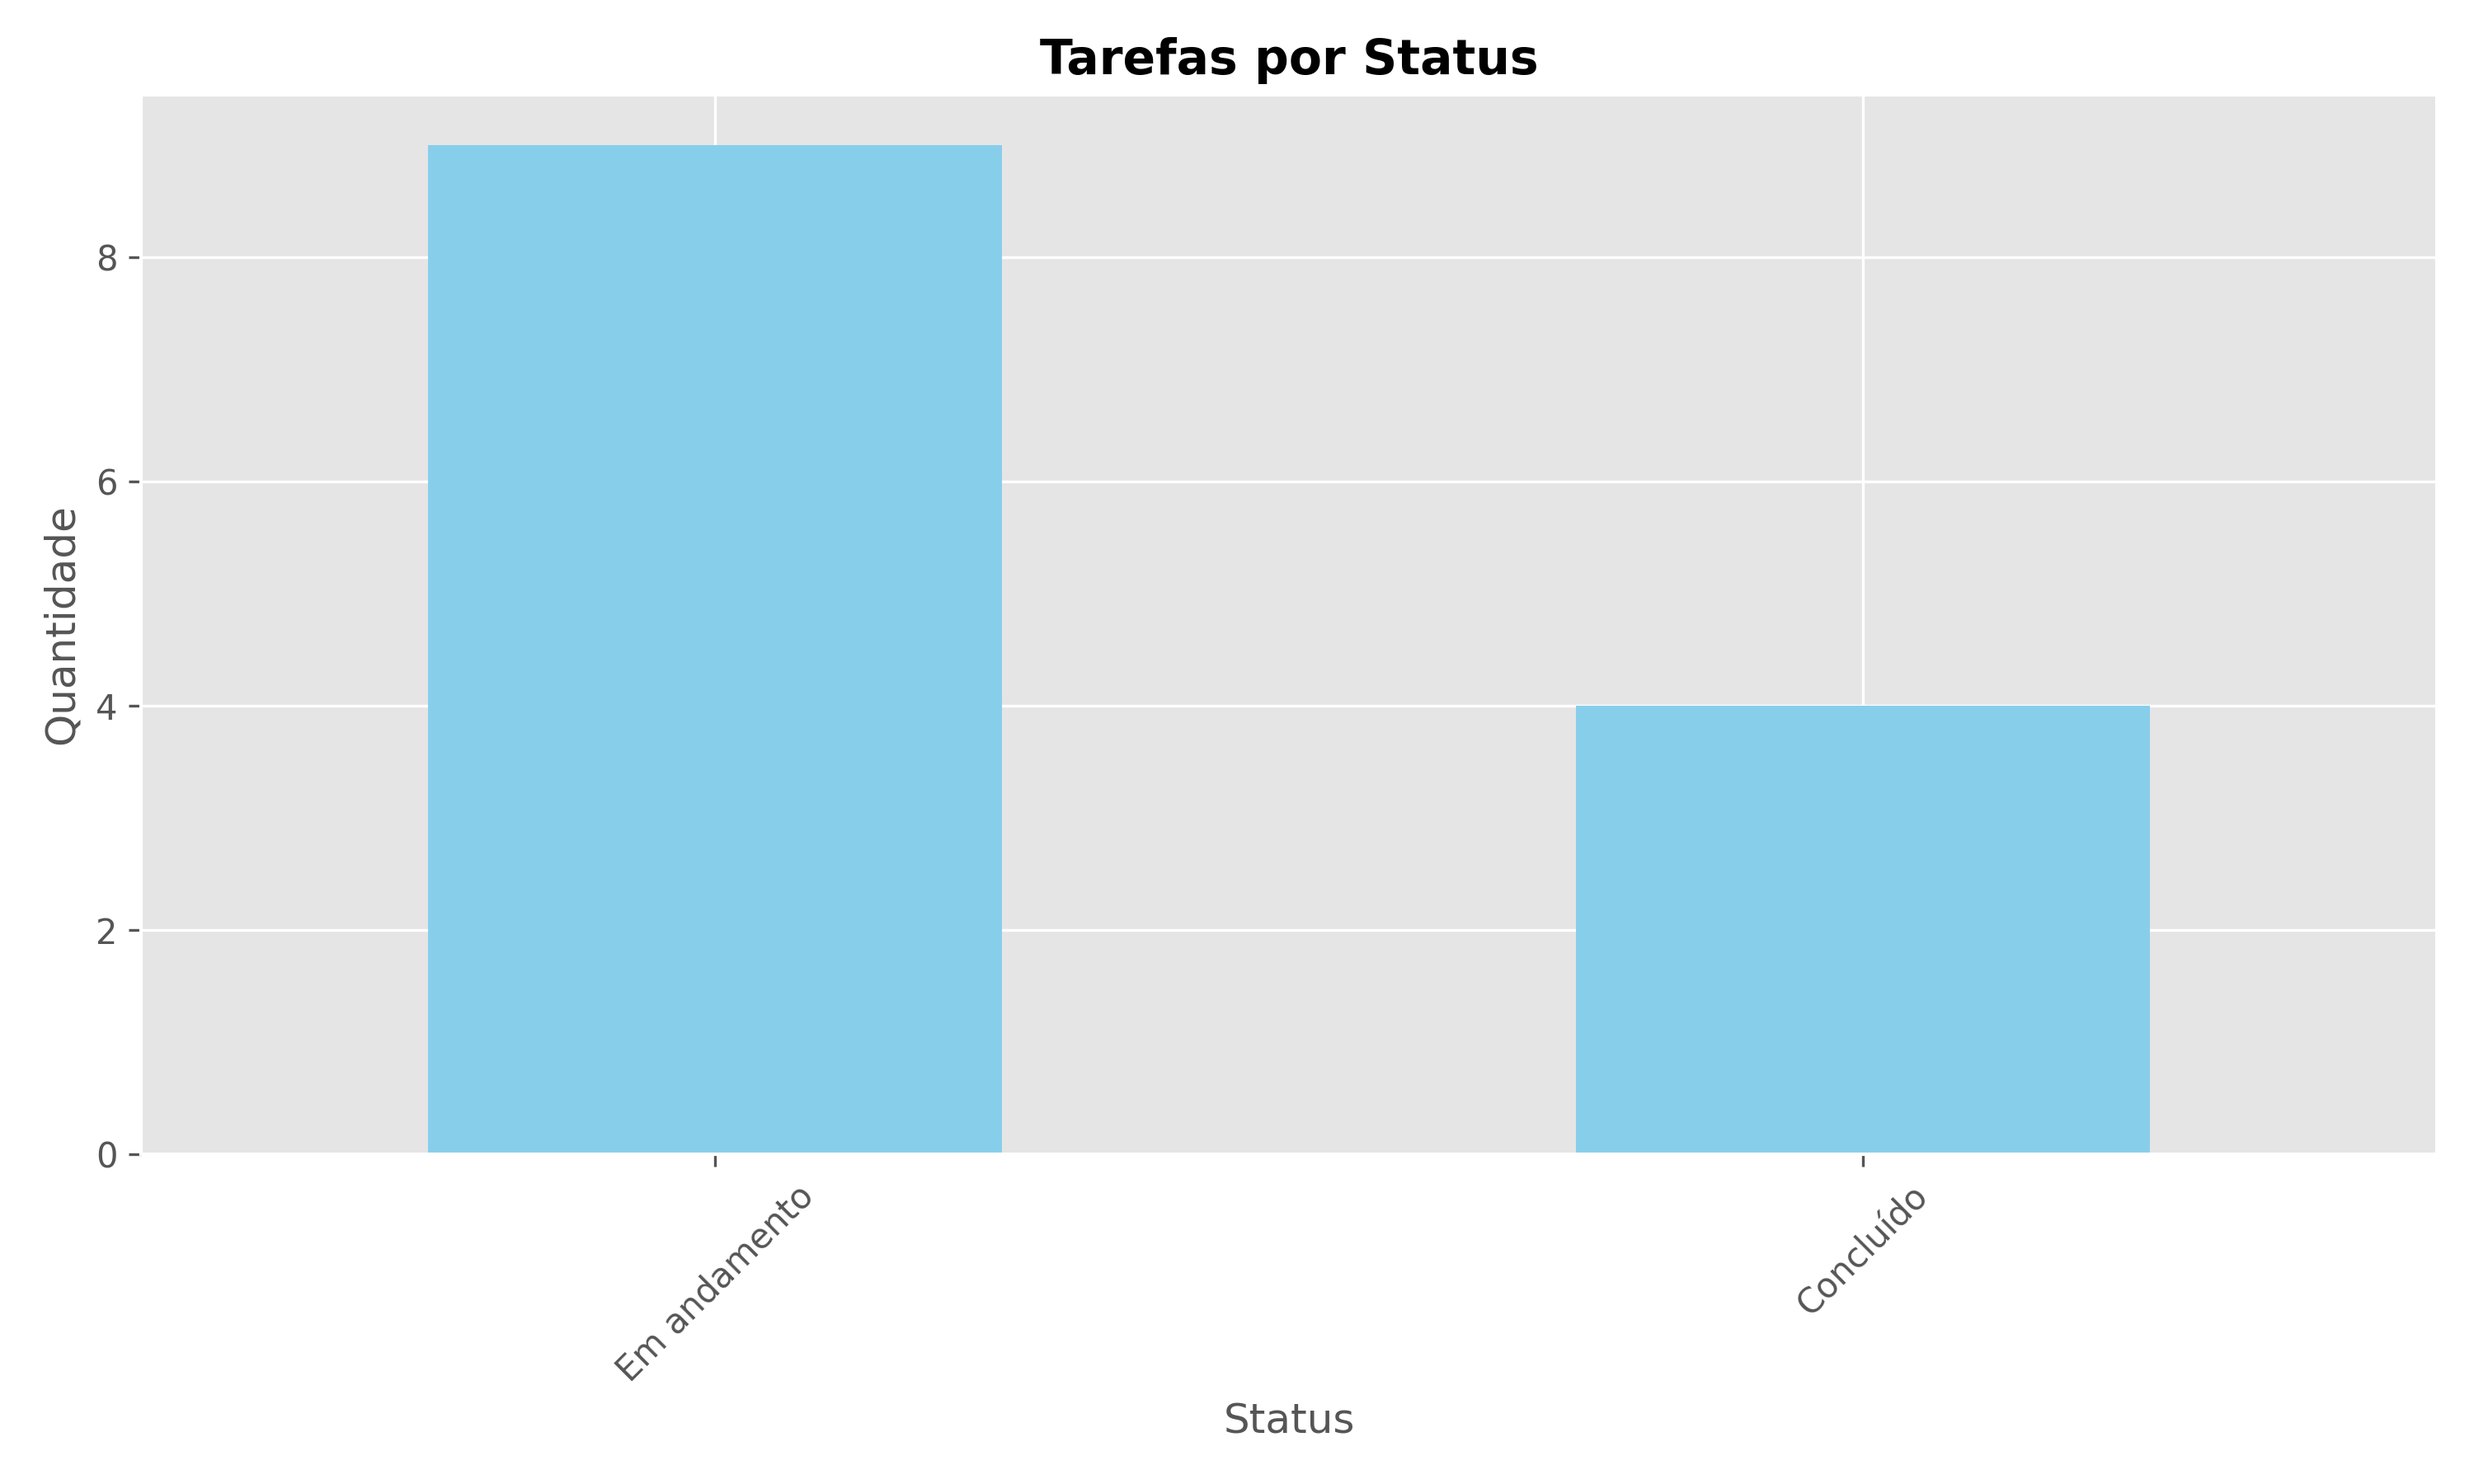
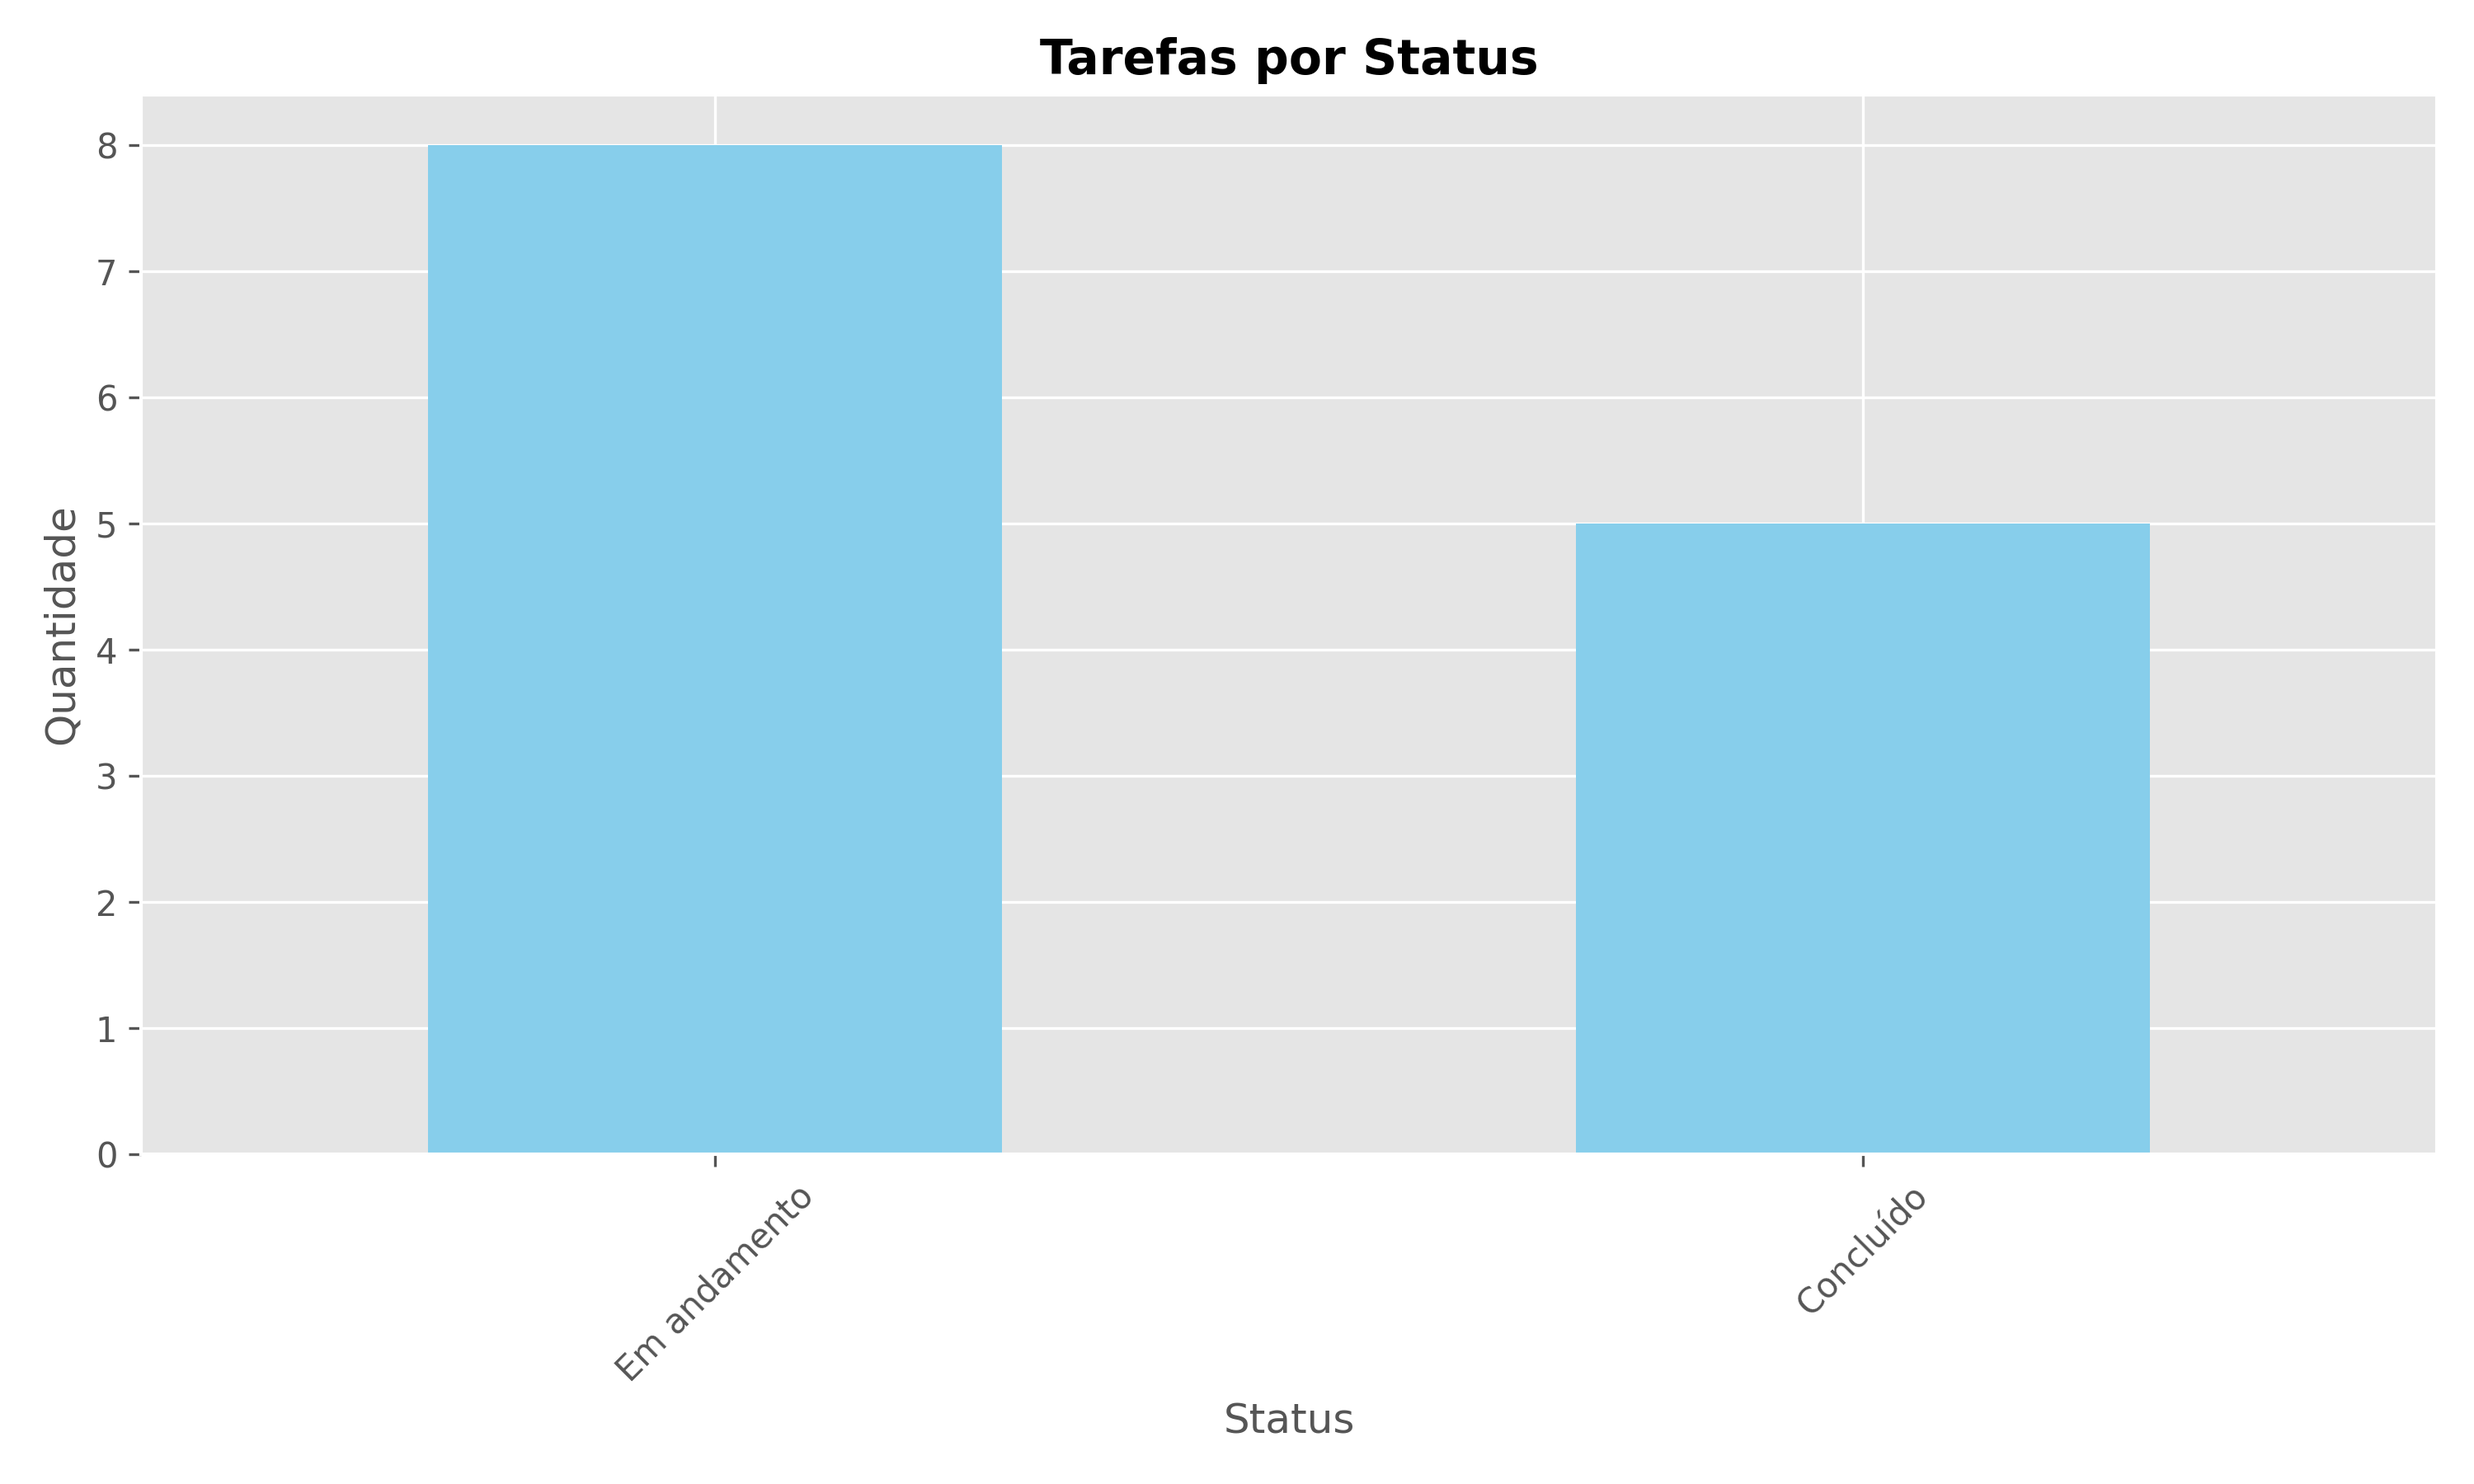
docs: mark Receita Federal activity as completed

Changed region(s): [[0.62, 0.3422, 0.868, 0.4978], [0.403, 0.1556, 0.961, 0.1867], [0.031, 0.1556, 0.155, 0.1867]]

diff --git a/docs/atividades/2026-03-atividades.md b/docs/atividades/2026-03-atividades.md
@@ -25,7 +25,7 @@ Este documento registra as atividades concluídas durante o mês para fins de es
 - [#2](https://github.com/ifesserra-lab/diretoria/issues/2) - [TAREFA]: Agendar reuniões com grupos de extensão (⏳)
 
 ### 🏛 Gestão (DPPGE)
-- [#13](https://github.com/ifesserra-lab/diretoria/issues/13) - [TAREFA]: Receber produtos da Receita Federal, categorizar e dividir entre as áreas do campus (⏳)
+- [#13](https://github.com/ifesserra-lab/diretoria/issues/13) - [TAREFA]: Receber produtos da Receita Federal, categorizar e dividir entre as áreas do campus (✅)
 - [#7](https://github.com/ifesserra-lab/diretoria/issues/7) - [TAREFA]: Organizar primeiro bate-papo informal com a comunidade (⏳)
 - [#6](https://github.com/ifesserra-lab/diretoria/issues/6) - [TAREFA]: Mapear tipos de projetos e fluxos de processos (⏳)
 - [#4](https://github.com/ifesserra-lab/diretoria/issues/4) - [TAREFA]: Formalizar comissão de aprovação de projetos (⏳)
